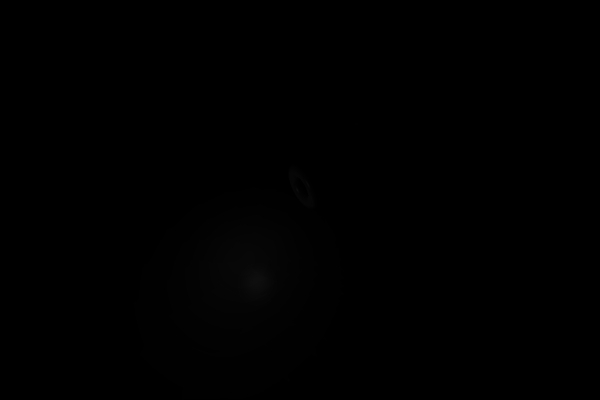
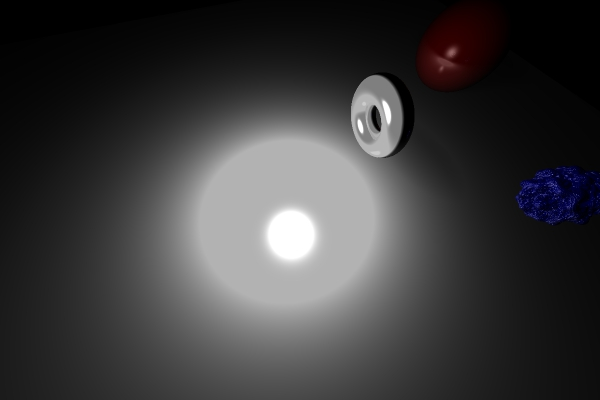
falling back

diff --git a/src/Light.cpp b/src/Light.cpp
@@ -106,38 +106,62 @@ float AreaLight::getBlocked(const glm::vec3& p, const std::vector<SceneObject*>&
 	}
 	return intensityOnPoint / SAMPLES_PER_LIGHT; // returns the average intensity
 }
-#define MAX_LIGHT_RAY_ITERATIONS 150
-#define LIGHT_HIT_EPSILON 0.01
-#define MAX_LIGHT_DISTANCE 1000.0f
+
+
+
+/*
+ * Below was a method of ray marching soft shadow approximation, i was not satisified with the ressults
+ */
+//#define MAX_LIGHT_RAY_ITERATIONS 150
+//#define LIGHT_HIT_EPSILON 0.01
+//#define MAX_LIGHT_DISTANCE 10e10f
+//float AreaLight::getBlockedRM(const glm::vec3& p, const std::vector<SceneObject*>& obj) {
+//	/*
+//	 * Quilez, I. (2010). Penumbra Shadows in raymarched SDFs
+//	 * Retrieved from https://www.iquilezles.org/www/articles/rmshadows/rmshadows.htm
+//	 *
+//	 */
+//	glm::vec3 diff = pos - p;
+//	glm::vec3 lightDir = glm::normalize(diff);
+//	float distToLight = glm::length(diff);
+//	float s = 1.0f;
+//	Ray testRay(lightDir, p);
+//	float t = LIGHT_EPSILON;
+//
+//	for (int i = 0; i < MAX_LIGHT_RAY_ITERATIONS; i++) {
+//
+//		float dist = testRay.sceneSDF(p + lightDir * t, obj);
+//
+//		//if (dist < LIGHT_HIT_EPSILON || t > MAX_LIGHT_DISTANCE) break;
+//		s = glm::min(s, dist / (0.5f*t));
+//		t += glm::clamp(dist, 0.005f, 0.5f);
+//		if (s < -1.0f || t > distToLight) break;
+//	}
+//	s = glm::max(s, -1.0f);
+//	return 0.25f*(1.0f + s)*(1.0f + s)*(2.0f - s);
+//
+//}
+
 float AreaLight::getBlockedRM(const glm::vec3& p, const std::vector<SceneObject*>& obj) {
 	/*
-	 * The source code is not exactly the same, but uses principles from:
-	 * 
-	 * Quilez, I. (2010). Penumbra Shadows in raymarched SDFs
-	 * Retrieved from https://www.iquilezles.org/www/articles/rmshadows/rmshadows.htm
-	 *
+	 * Reference:
+	 * Wenzel, J., Pharr, M., Humphreys, G. (2004), Physically Based Rendering: From Theory To Implementation Retrieved from
+	 * http://www.pbr-book.org/3ed-2018/Light_Transport_I_Surface_Reflection/Sampling_Light_Sources.html
 	 */
+
 	glm::vec3 diff = pos - p;
 	glm::vec3 lightDir = glm::normalize(diff);
-	float distToLight = glm::length(diff);
-	double s = 1.0;
-	Ray testRay(lightDir, p);
-	float t = LIGHT_EPSILON;
-	float crunch_rad = FLT_MAX;
-	float crunch_dist = FLT_MAX;
-	for (int i = 0; i < MAX_LIGHT_RAY_ITERATIONS; i++) {
-
-		float dist = testRay.sceneSDF(p + lightDir * t, obj);
-
-		if (glm::abs(dist) < LIGHT_HIT_EPSILON || t > MAX_LIGHT_DISTANCE) return 0.0f;
-		if (t > distToLight) break;
-		crunch_rad = glm::min(crunch_rad, dist);
-
-		t += dist;
+	glm::vec3 up = glm::normalize(glm::cross(-lightDir, glm::vec3(-lightDir.z, -(-lightDir.y + -lightDir.z + -lightDir.x), -lightDir.x))); // hopefully spherical Rand != lightDir
+	glm::vec3 right = glm::normalize(glm::cross(up, -lightDir));
+	float intensityOnPoint = 0.0f;
+	for (int i = 0; i < SAMPLES_PER_LIGHT; i++) {
+		auto pt = glm::diskRand(radius); // we'll see how uniform this is
+		auto point = right * pt.x + up * pt.y + pos;
+		auto testDir = point - p;
+		float distToLight = glm::sqrt(glm::dot(testDir, testDir));
+		Ray lightTest = Ray(glm::normalize(testDir), p + testDir * LIGHT_EPSILON);
+		glm::vec3 shadePoint;
+		intensityOnPoint += (!lightTest.rayMarch(obj, shadePoint) || glm::distance(shadePoint, point) > distToLight) ? 1.0f : 0.0f;
 	}
-	// radius - crunch_rad -> occlusion radius. since this is an approximation, we'll assume it's only occluding it on 1 side (so maybe 1/4 the total area)?
-	// pi*r^2 is area, and we are interested in the ratio between un-occluded area and full area.
-	// radius - (radius-crunch_rad) = crunch_rad -> new radius
-	return glm::clamp(crunch_rad / radius, 0.0f, 1.0f);
-	//return glm::min(s * s*(3.0 - 2.0*s), 1.0);
+	return intensityOnPoint / SAMPLES_PER_LIGHT; // returns the average intensity
 }
